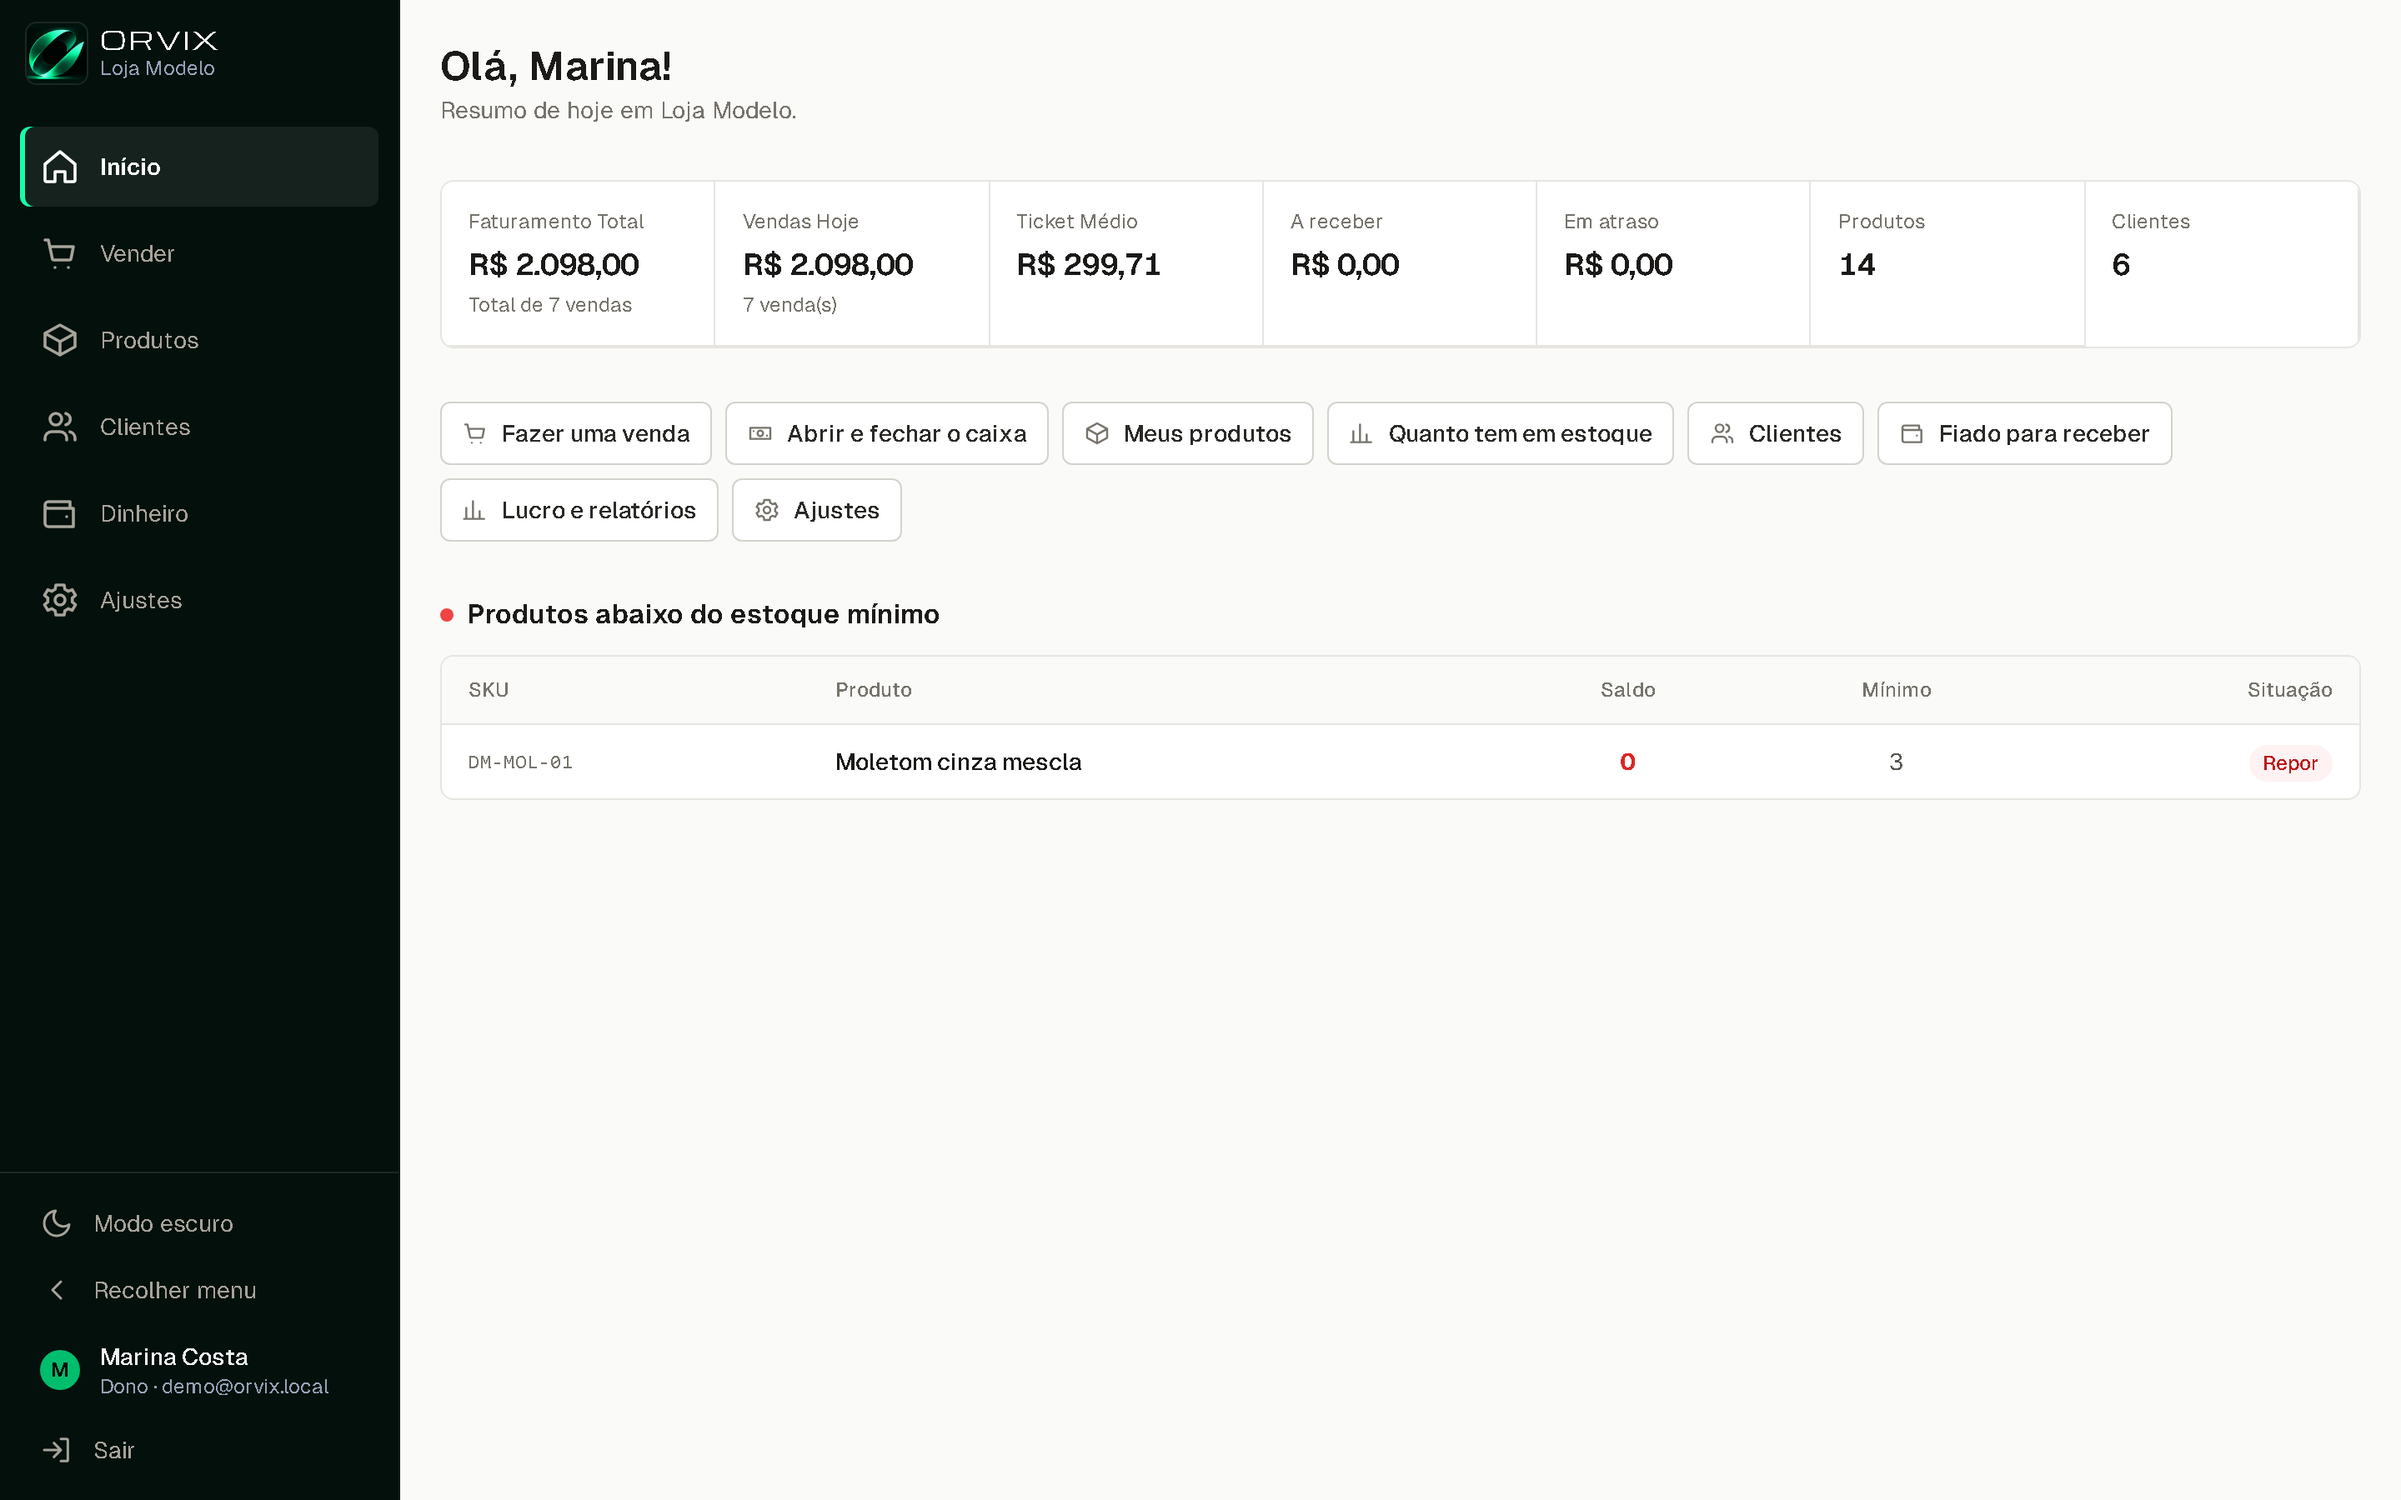
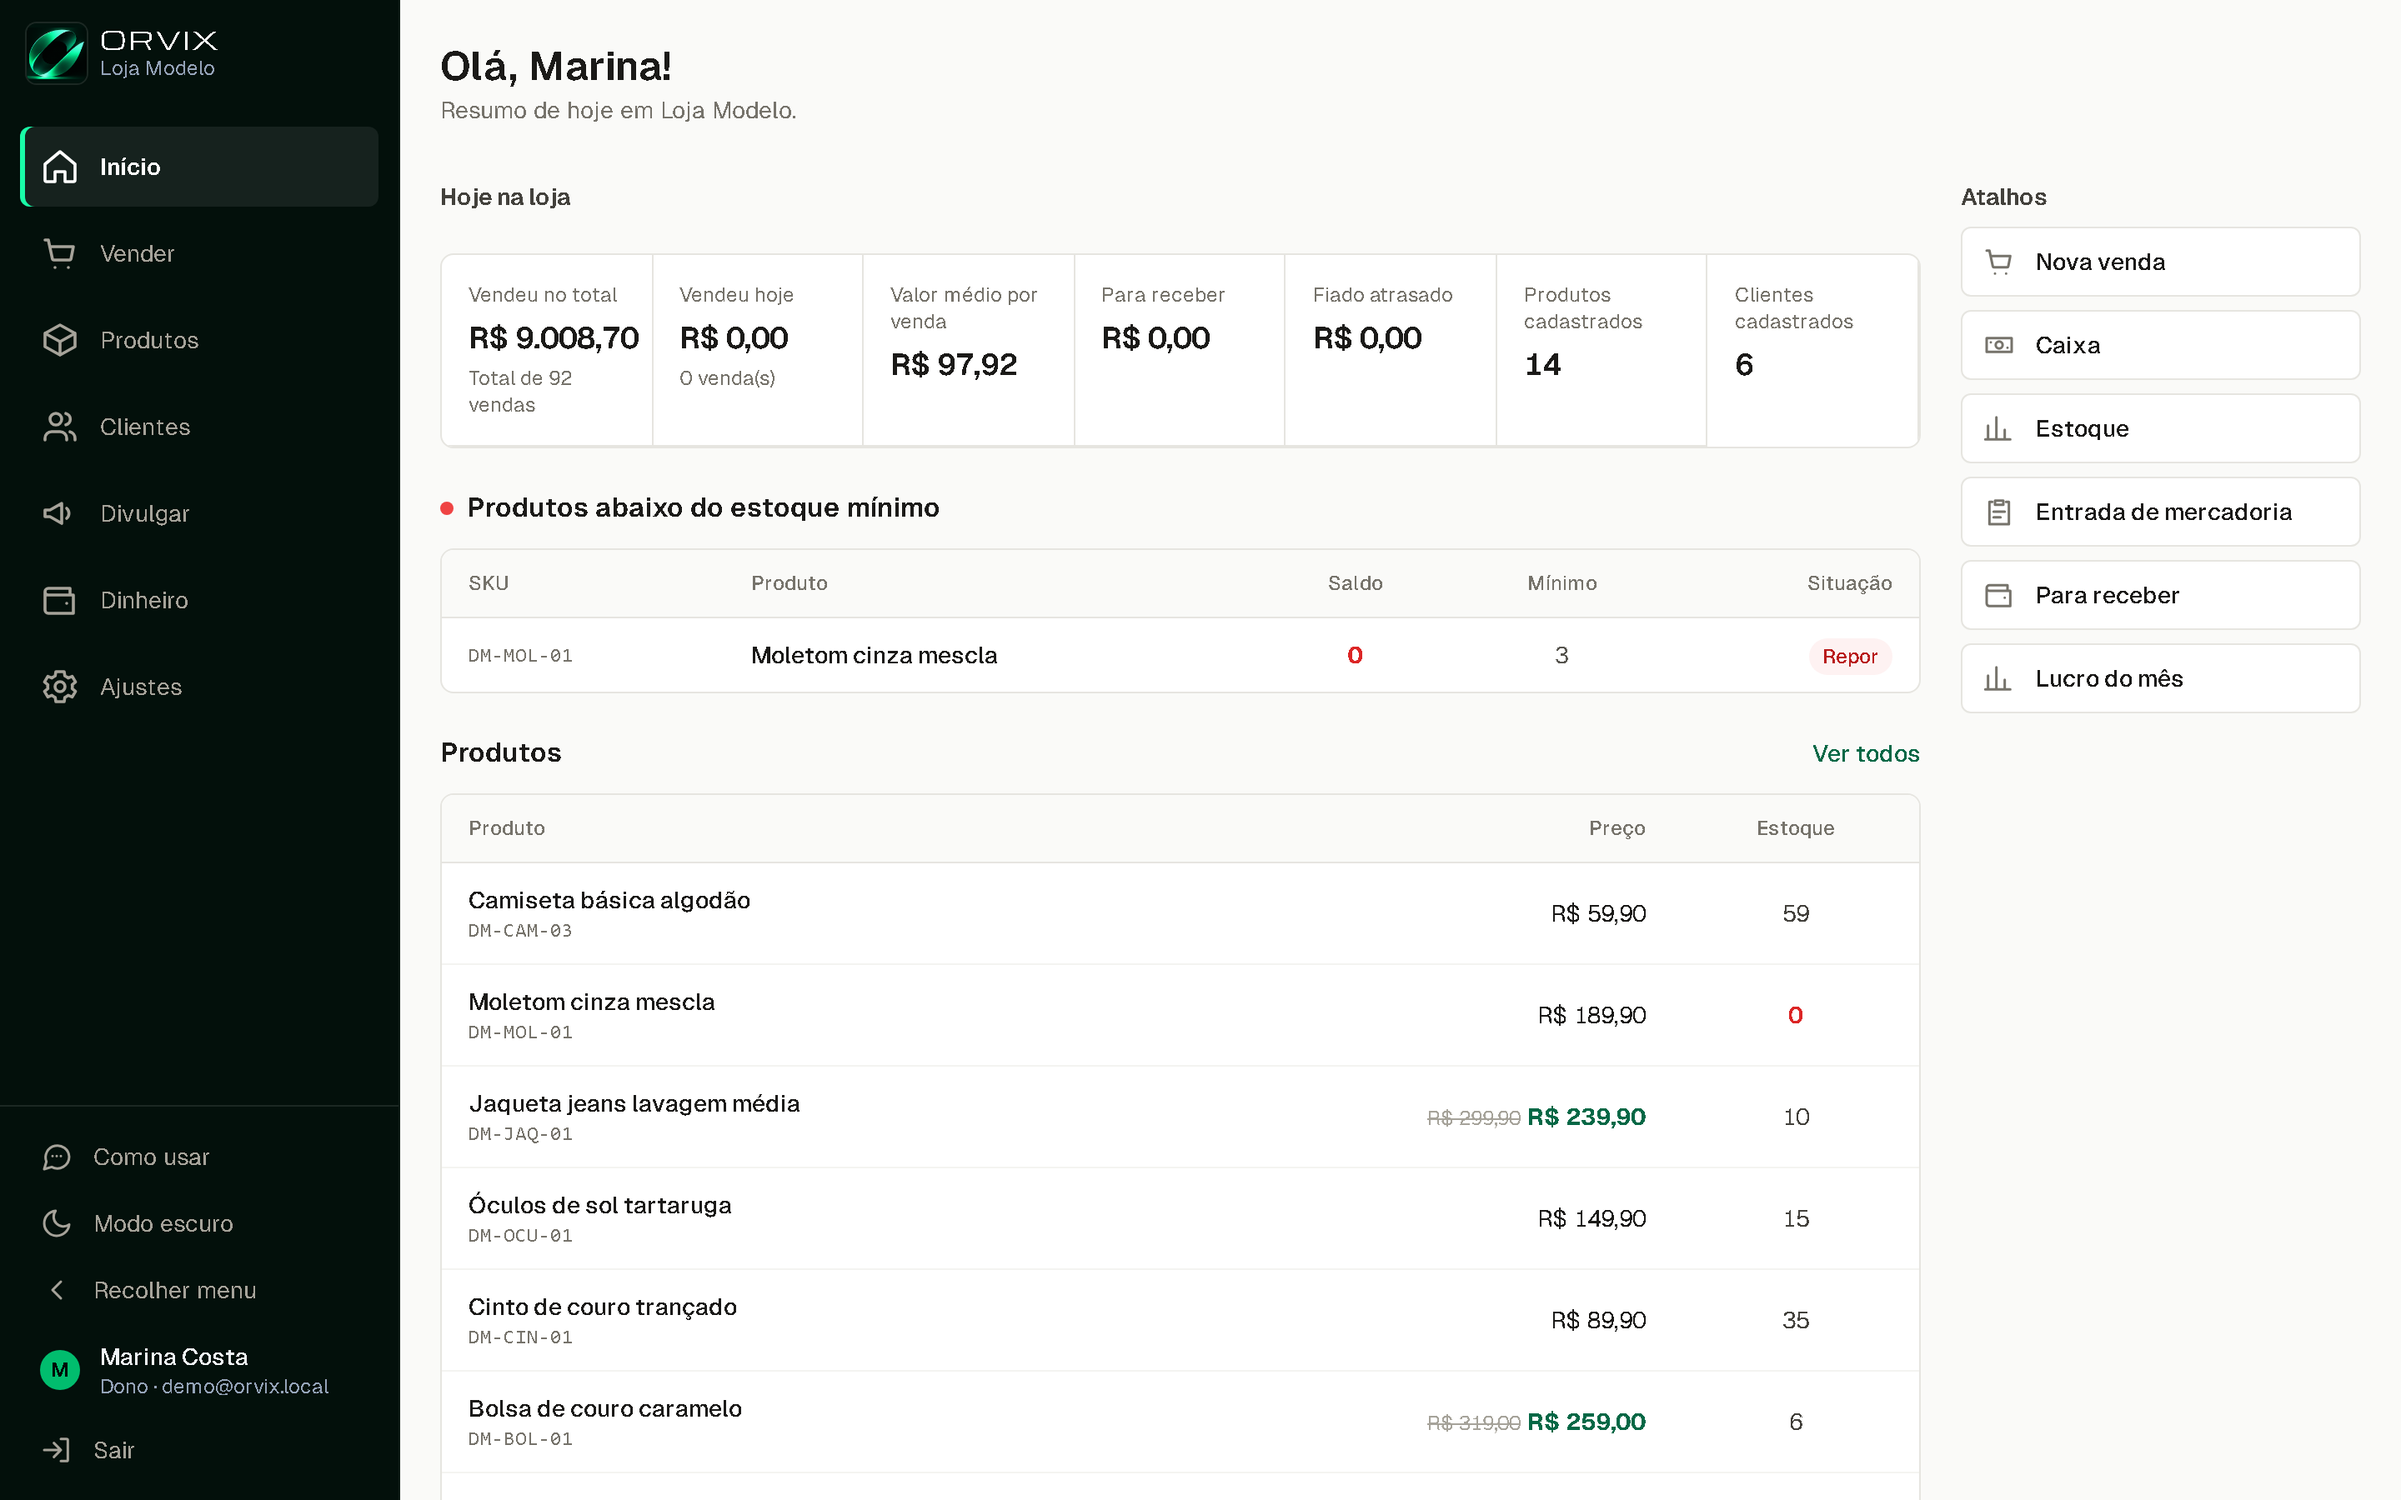
docs: vitrine atualizada (Início novo, Divulgar e temas por loja)
- Prints novos da Loja Modelo: Início, PDV, Produtos, Relatórios, modo escuro e site
- Seção "Com a cara de cada loja": Aparência e os temas azul, roxo e laranja
- Funcionalidades e decisões técnicas atualizadas (temas, testes de ataque e carga, 62 testes)

diff --git a/README.md b/README.md
@@ -13,6 +13,8 @@ Em uso numa loja real e vendido como assinatura (várias empresas no mesmo siste
 ![Prisma](https://img.shields.io/badge/Prisma-5-2D3748?logo=prisma)
 ![Playwright](https://img.shields.io/badge/testes-Playwright-2EAD33?logo=playwright&logoColor=white)
 
+**[Ver o site](https://erp-outlet.onrender.com)**
+
 </div>
 
 ![Site do Orvix](17-site-topo.png)
@@ -23,19 +25,33 @@ Lojas pequenas controlam vendas no caderno, estoque na planilha e contas no apli
 
 ## A solução
 
-Um sistema web em que **cada venda baixa o estoque e entra no financeiro sozinha**, com telas pensadas para quem não tem costume com computador.
+Um sistema web em que **cada venda baixa o estoque e entra no financeiro sozinha**, com telas pensadas para quem não tem costume com computador: poucos botões, nomes do dia a dia e o que importa logo na primeira tela.
 
-| Venda no PDV | Painel do dia |
+| Início: números do dia, o que está acabando e atalhos | Venda no PDV |
 |---|---|
-| ![PDV](02-pdv.png) | ![Início](01-inicio.png) |
+| ![Início](01-inicio.png) | ![PDV](02-pdv.png) |
 
 | Produtos com preço de/por | Lucro e DRE do mês |
 |---|---|
 | ![Produtos](03-produtos.png) | ![Relatórios](07-relatorios.png) |
 
-| Modo escuro | No celular |
+| Divulgar no WhatsApp, Instagram e Facebook | Modo escuro |
 |---|---|
-| ![Modo escuro](12-inicio-escuro.png) | <img src="15-celular-pdv.png" width="260" alt="PDV no celular"> |
+| ![Divulgar](21-divulgar.png) | ![Modo escuro](12-inicio-escuro.png) |
+
+## Com a cara de cada loja
+
+O dono escolhe as **cores do sistema** (8 temas) e coloca o **nome e a logo da loja** no canto da tela e na guia do navegador. Vale para toda a equipe.
+
+| Aparência: cores, nome e logo | Tema azul |
+|---|---|
+| ![Aparência](23-aparencia.png) | ![Tema azul](24-tema-azul.png) |
+
+| Tema roxo no PDV | Tema laranja em Produtos |
+|---|---|
+| ![Tema roxo](25-tema-roxo-pdv.png) | ![Tema laranja](26-tema-laranja-produtos.png) |
+
+<p align="center"><img src="15-celular-pdv.png" width="260" alt="PDV no celular"><br><em>Funciona no celular</em></p>
 
 ## Funcionalidades
 
@@ -44,17 +60,20 @@ Um sistema web em que **cada venda baixa o estoque e entra no financeiro sozinha
 - **Por ramo de negócio:** grade de tamanho e cor, validade e lote, número de série/IMEI, venda por peso
 - **Financeiro:** contas a pagar e a receber, cartões a receber por maquininha, DRE
 - **Vendas online:** loja com o mesmo estoque, pedido pelo WhatsApp, frete; Mercado Livre e Mercado Pago
-- **Divulgação:** mensagem pronta para WhatsApp e geração de posts para Instagram e Facebook
+- **Divulgação:** tela própria para escolher os produtos e mandar no WhatsApp ou gerar o post do Instagram e do Facebook
+- **Aparência por empresa:** 8 temas de cor, nome e logo da loja no menu e na guia do navegador
 - **Equipe:** perfis Dono, Administrador, Gerente, Caixa, Estoquista e Consulta
 
 ## Decisões técnicas
 
 - **Várias empresas no mesmo banco** com filtro automático por empresa em toda consulta (a consulta falha se a empresa não for identificada); Row Level Security ligado em todas as tabelas para fechar o acesso direto pela API do banco
-- **Transações atômicas** em estoque e financeiro (venda, entrada de nota, inventário)
-- **Segurança:** verificação em duas etapas, CSRF, limite de tentativas, cabeçalhos de segurança e CSP com nonce
-- **LGPD:** exportar e excluir os dados pessoais de um cliente, coleta mínima, senhas com bcrypt, backup diário
-- **Usabilidade (Heurísticas de Nielsen):** menu de 6 botões com nomes do dia a dia, telas agrupadas em abas, resposta imediata ao clique e barra de progresso
-- **Testes de ponta a ponta** com Playwright nos fluxos principais, como a venda no PDV
+- **Transações atômicas** em estoque e financeiro (venda, entrada de nota, inventário), testadas com vendas simultâneas
+- **Temas sem trocar as telas:** as cores do Tailwind vêm de variáveis CSS e cada empresa troca só as variáveis; a logo é reduzida no navegador e conferida pelo conteúdo do arquivo no servidor (só PNG, JPG ou WebP)
+- **Segurança:** verificação em duas etapas, CSRF, limite de tentativas atômico (também contra tentativas em paralelo), limite de tamanho dos pedidos, fila para a checagem de senha sob carga, cabeçalhos de segurança e CSP com nonce
+- **Testes de ataque e de carga** em ambiente local: força bruta, XSS, corpo gigante, enxurrada de logins e muitos acessos ao mesmo tempo
+- **LGPD:** exportar e excluir os dados pessoais de um cliente, canal do titular, coleta mínima, senhas com bcrypt, backup diário
+- **Usabilidade (Heurísticas de Nielsen):** menu de 7 botões com nomes do dia a dia, telas de cada área com os números no topo e botões grandes, telas agrupadas em abas, resposta imediata ao clique e barra de progresso
+- **Testes de ponta a ponta** com Playwright (62 testes): venda no PDV, navegação, segurança, LGPD e aparência
 
 ## Stack
 
